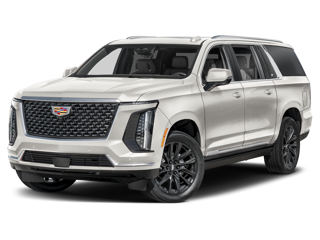
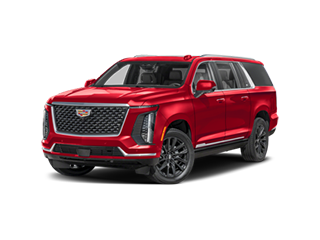
The last four thin rosters: Cadillac, Ford, Kia and Toyota now hold every model their live bars draw
The four that grouped correctly but had less in them than the bars they were
measured from. Same fix as Chevrolet's nine cutouts, finished: 71 models across
the four, every one read off the live bar, downloaded, and proved to serve the
identical bytes from an unrelated dealer domain.

  Cadillac   5 -> 14    Sedans held one car, and it was a CT5-V that bar has
                        never listed. Now CT4 and CT5, and the nine missing
                        crossovers.
  Ford       6 -> 12    Trucks & Vans held one of six. Now Maverick, Ranger,
                        Transit Connect, F-150, Super Duty, Transit.
  Kia       12 -> 18    K4 Hatchback, Carnival MPV, and the four hybrids the
                        Hybrid / Electric tab was missing.
  Toyota    10 -> 27    Cars & Minivan showed three of nine and Electrified one
                        of fourteen.

WHERE THE PICTURES CAME FROM. Cadillac and Ford move off ChromeData onto the
folder their own bar reads (brand-cadillac/homepage/model-bar/2026,
brand-ford/Homepage/model-bar/2025). That is what those bars actually serve, and
it is the only route with a deterministic path for every model - the ChromeData
one has to be found per model off a live inventory page, and which paint it
returns depends on what that store happens to stock. Kia keeps the mix its bar
uses, ChromeData for most tiles and brand-kia for six. Sizes are MEASURED from
the bytes, never copied from the width and height attributes, which is how five
[…]

diff --git a/demo/assets/cms-paths.js b/demo/assets/cms-paths.js
@@ -12,8 +12,10 @@
 // the model is guaranteed, not the paint colour. They are still proved to
 // serve from an unrelated dealer domain like everything else here.
 
-// 125 of 126 cutouts byte-proved, 8 name-matched, 26 library photos.
-// Harvested 2026-09-04 by re-running the script above.
+// 256 pairs: 248 byte-proved, 8 name-matched (the chrome-*.webp group above).
+// Harvested 2026-09-04 by re-running the script; merged additively since.
+// Last proved in full 2026-09-15 - every pair fetched from acurademo1, a domain
+// unrelated to any of them, and hashed against the local file.
 
 globalThis.CARGO = Object.assign(globalThis.CARGO || {}, {
   CMS: {
@@ -88,11 +90,10 @@ globalThis.CARGO = Object.assign(globalThis.CARGO || {}, {
     'oem/buick/encore-gx.png': '/assets/stock/ColorMatched_01/Transparent/320/cc_2026BUS06_01_320/cc_2026BUS061954085_01_320_GAS.png',
     'oem/buick/envision.png': '/assets/stock/Expanded/Transparent/320/2026BUS05_320/2026BUS051970113_320_01.png',
     'oem/buick/envista.png': '/assets/stock/ColorMatched_01/Transparent/320/cc_2026BUS07_01_320/cc_2026BUS071968602_01_320_GK9.png',
-    'oem/cadillac/ct5-v.png': '/assets/stock/Expanded/Transparent/320/2026CAC29_320/2026CAC291964286_320_01.png',
-    'oem/cadillac/escalade-esv.png': '/assets/stock/ColorMatched_01/Transparent/320/cc_2026CAS03_01_320/cc_2026CAS032082174_01_320_G4J.png',
-    'oem/cadillac/escalade-iq.png': '/assets/stock/ColorMatched_01/Transparent/320/cc_2026CAS10_01_320/cc_2026CAS102035478_01_320_GAI.png',
-    'oem/cadillac/escalade-iql.png': '/assets/stock/ColorMatched_01/Transparent/320/cc_2026CAS13_01_320/cc_2026CAS132004037_01_320_G4J.png',
-    'oem/cadillac/escalade.png': '/assets/stock/ColorMatched_01/Transparent/320/cc_2026CAS01_01_320/cc_2026CAS012081558_01_320_GBA.png',
+    'oem/cadillac/escalade-esv.png': '/static/brand-cadillac/homepage/model-bar/2026/Escalade-ESV.png',
+    'oem/cadillac/escalade-iq.png': '/static/brand-cadillac/homepage/model-bar/2026/Escalade-IQ.png',
+    'oem/cadillac/escalade-iql.png': '/static/brand-cadillac/homepage/model-bar/2026/Escalade-IQL.png',
+    'oem/cadillac/escalade.png': '/static/brand-cadillac/homepage/model-bar/2026/Escalade.png',
     'oem/cdjr/chrysler-pacifica.png': '/static/brand-chrysler/Homepage/model-bar/2026/pacifica.png',
     'oem/cdjr/chrysler-voyager.png': '/static/brand-chrysler/Homepage/model-bar/2026/voyager.png',
     'oem/cdjr/dodge-charger.png': '/static/brand-chrysler/Homepage/model-bar/2026/charger-2d.png',
@@ -101,12 +102,10 @@ globalThis.CARGO = Object.assign(globalThis.CARGO || {}, {
     'oem/cdjr/jeep-wrangler.png': '/static/brand-chrysler/Homepage/model-bar/2026/wrangler.png',
     'oem/cdjr/ram-1500.png': '/static/brand-chrysler/Homepage/model-bar/2026/ram1500.png',
     'oem/cdjr/ram-2500.png': '/static/brand-chrysler/Homepage/model-bar/2026/ram2500.png',
-    'oem/ford/bronco.png': '/assets/stock/Expanded/Transparent/320/2026FOS09_320/2026FOS092019854_320_01.png',
-    'oem/ford/escape.png': '/assets/stock/Expanded/Transparent/320/2026FOS13_320/2026FOS132041001_320_01.png',
-    'oem/ford/explorer.png': '/assets/stock/ColorMatched_01/Transparent/320/cc_2026FOS10_01_320/cc_2026FOS102066679_01_320_A3.png',
-    'oem/ford/f-150.png': '/assets/stock/Expanded/Transparent/320/2026FOT11_320/2026FOT112052105_320_01.png',
-    'oem/ford/mach-e.png': '/assets/stock/Expanded/Transparent/320/2026FOS39_320/2026FOS392018676_320_01.png',
-    'oem/ford/mustang.png': '/assets/stock/Expanded/Transparent/320/2026FOC05_320/2026FOC051997933_320_01.png',
+    'oem/ford/bronco.png': '/static/brand-ford/Homepage/model-bar/2025/bronco.png',
+    'oem/ford/explorer.png': '/static/brand-ford/Homepage/model-bar/2025/explorer.png',
+    'oem/ford/f-150.png': '/static/brand-ford/Homepage/model-bar/2025/f-150.png',
+    'oem/ford/mustang.png': '/static/brand-ford/Homepage/model-bar/2025/mustang.png',
     'oem/genesis/g70.png': '/static/brand-genesis/homepage/modelbar/2026/2026_g70.png',
     'oem/genesis/g80.png': '/static/brand-genesis/homepage/modelbar/2026/2026_g80.png',
     'oem/genesis/g90.png': '/static/brand-genesis/homepage/modelbar/2026/2026_g90.png',
@@ -131,14 +130,14 @@ globalThis.CARGO = Object.assign(globalThis.CARGO || {}, {
     'oem/kia/ev6.png': '/assets/stock/ColorMatched_01/Transparent/320/cc_2025KIS11_01_320/cc_2025KIS112053522_01_320_MLB.png',
     'oem/kia/ev9.png': '/assets/stock/ColorMatched_01/Transparent/320/cc_2026KIS14_01_320/cc_2026KIS141982086_01_320_RSL.png',
     'oem/kia/k4.png': '/assets/stock/ColorMatched_01/Transparent/320/cc_2026KIC21_01_320/cc_2026KIC212039153_01_320_SWP.png',
-    'oem/kia/k5.png': '/assets/stock/ColorMatched_01/Transparent/320/cc_2026KIC20_01_320/cc_2026KIC201989846_01_320_DU3.png',
+    'oem/kia/k5.png': '/static/brand-kia/Homepage/model-bar/2026/k5-profile-320.png',
     'oem/kia/niro-ev.png': '/assets/stock/ColorMatched_01/Transparent/320/cc_2025KIS07_01_320/cc_2025KIS072033080_01_320_SWP.png',
     'oem/kia/niro-plug-in-hybrid.png': '/assets/stock/ColorMatched_01/Transparent/320/cc_2025KIS05_01_320/cc_2025KIS051989274_01_320_M4B.png',
     'oem/kia/niro.png': '/assets/stock/ColorMatched_01/Transparent/320/cc_2026KIS04_01_320/cc_2026KIS042043916_01_320_CR5.png',
     'oem/kia/seltos.png': '/assets/stock/Expanded/Transparent/320/2026KIS08_320/2026KIS081978066_320_01.png',
     'oem/kia/sorento-hybrid.png': '/assets/stock/ColorMatched_01/Transparent/320/cc_2026KIS09_01_320/cc_2026KIS092006874_01_320_CGE.png',
     'oem/kia/sorento.png': '/assets/stock/ColorMatched_01/Transparent/320/cc_2026KIS02_01_320/cc_2026KIS022005133_01_320_RSL.png',
-    'oem/kia/sportage.png': '/assets/stock/ColorMatched_01/Transparent/320/cc_2026KIS01_01_320/cc_2026KIS012024701_01_320_LAB.png',
+    'oem/kia/sportage.png': '/static/brand-kia/Homepage/model-bar/2026/sportage-profile-320.png',
     'oem/kia/telluride.png': '/assets/stock/ColorMatched_01/Transparent/320/cc_2027KIS06_01_320/cc_2027KIS062056820_01_320_RSL.png',
     'oem/landrover/defender.png': '/assets/stock/Expanded/Transparent/320/2026LRS13_320/2026LRS132045992_320_01.png',
     'oem/landrover/range-rover.png': '/assets/stock/Expanded/Transparent/320/2026LRS07_320/2026LRS072063779_320_01.png',
@@ -176,11 +175,11 @@ globalThis.CARGO = Object.assign(globalThis.CARGO || {}, {
     'oem/toyota/corolla.jpg': '/static/brand-toyota/Homepage/model-bar/2026/picture-based/2026-corolla.jpg',
     'oem/toyota/4runner.png': '/static/brand-toyota/Homepage/model-bar/2026/angular-left/4runner.png',
     'oem/toyota/camry.png': '/static/brand-toyota/Homepage/model-bar/2026/angular-left/camry.png',
-    'oem/toyota/corolla-hatchback.png': '/static/brand-toyota/Homepage/model-bar/2026/angular-left/corolla-hatchback.png',
+    'oem/toyota/corolla-hatchback.png': '/static/brand-toyota/Homepage/model-bar/2027/angular-left/corolla-hatchback.png',
     'oem/toyota/corolla.png': '/static/brand-toyota/Homepage/model-bar/2026/angular-left/corolla.png',
     'oem/toyota/grand-highlander.png': '/static/brand-toyota/Homepage/model-bar/2026/angular-left/grand-highlander.png',
     'oem/toyota/highlander.png': '/static/brand-toyota/Homepage/model-bar/2026/angular-left/highlander.png',
-    'oem/toyota/landcruiser.png': '/static/brand-toyota/Homepage/model-bar/2026/angular-left/landcruiser.png',
+    'oem/toyota/landcruiser.png': '/static/brand-toyota/Homepage/model-bar/2027/angular-left/landcruiser.png',
     'oem/toyota/rav4.png': '/static/brand-toyota/Homepage/model-bar/2026/angular-left/rav4.png',
     'oem/toyota/tacoma.png': '/static/brand-toyota/Homepage/model-bar/2026/angular-left/tacoma.png',
     'oem/toyota/tundra.png': '/static/brand-toyota/Homepage/model-bar/2026/angular-left/tundra.png',
@@ -247,5 +246,50 @@ globalThis.CARGO = Object.assign(globalThis.CARGO || {}, {
     'chrome-brightdrop.png': '/assets/stock/Expanded/Transparent/320/2026CHV36_320/2026CHV362018903_320_01.png',
     'chrome-blazer.png': '/assets/stock/ColorMatched_01/Transparent/320/cc_2026CHS09_01_320/cc_2026CHS092044906_01_320_GNT.png',
     'chrome-corvette.png': '/assets/stock/Expanded/Transparent/320/2026CHC06_320/2026CHC062056336_320_01.png',
+    // Cadillac, Ford, Kia and Toyota taken up to the full rosters their live
+    // bars draw (2026-09-15). Cadillac and Ford move off ChromeData onto the
+    // bar's own folder, which is what those bars actually serve and the only
+    // route that reaches every model; Kia keeps the mix its bar uses.
+    'oem/cadillac/vistiq.png': '/static/brand-cadillac/homepage/model-bar/2026/VISTIQ.png',
+    'oem/cadillac/lyriq.png': '/static/brand-cadillac/homepage/model-bar/2026/LYRIQ.png',
+    'oem/cadillac/optiq.png': '/static/brand-cadillac/homepage/model-bar/2026/OPTIQ.png',
+    'oem/cadillac/optiq-v.png': '/static/brand-cadillac/homepage/model-bar/2026/OPTIQ-V.png',
+    'oem/cadillac/escalade-v.png': '/static/brand-cadillac/homepage/model-bar/2026/Escalade-V.png',
+    'oem/cadillac/xt4.png': '/static/brand-cadillac/homepage/model-bar/2026/XT-4.png',
+    'oem/cadillac/xt5.png': '/static/brand-cadillac/homepage/model-bar/2026/XT-5.png',
+    'oem/cadillac/xt6.png': '/static/brand-cadillac/homepage/model-bar/2026/XT-6.png',
+    'oem/cadillac/ct4.png': '/static/brand-cadillac/homepage/model-bar/2026/CT4.png',
+    'oem/cadillac/ct5.png': '/static/brand-cadillac/homepage/model-bar/2026/CT5.png',
+    'oem/ford/bronco-sport.png': '/static/brand-ford/Homepage/model-bar/2025/bronco-sport.png',
+    'oem/ford/expedition.png': '/static/brand-ford/Homepage/model-bar/2025/expedition.png',
+    'oem/ford/mustang-mach-e.png': '/static/brand-ford/Homepage/model-bar/2025/mach-e.png',
+    'oem/ford/maverick.png': '/static/brand-ford/Homepage/model-bar/2025/maverick.png',
+    'oem/ford/ranger.png': '/static/brand-ford/Homepage/model-bar/2025/ranger.png',
+    'oem/ford/transit-connect.png': '/static/brand-ford/Homepage/model-bar/2023/transit-connect-left.png',
+    'oem/ford/super-duty.png': '/static/brand-ford/Homepage/model-bar/2025/super-duty.png',
+    'oem/ford/transit.png': '/static/brand-ford/Homepage/model-bar/2025/transit.png',
+    'oem/kia/k4-hatchback.png': '/static/brand-kia/Homepage/model-bar/2026/k4-hatchback.png',
+    'oem/kia/carnival-mpv.png': '/static/brand-kia/Homepage/model-bar/2027/carnival.png',
+    'oem/kia/sportage-hybrid.png': '/static/brand-kia/Homepage/model-bar/2027/sportage-hev.png',
+    'oem/kia/sportage-plug-in-hybrid.png': '/static/brand-kia/Homepage/model-bar/2027/sportage-phev.png',
+    'oem/kia/telluride-hybrid.png': '/static/brand-kia/Homepage/model-bar/2027/telluride-hybrid.png',
+    'oem/kia/carnival-mpv-hybrid.png': '/static/brand-kia/Homepage/model-bar/2027/carnival-hev.png',
+    'oem/toyota/mirai.png': '/static/brand-toyota/Homepage/model-bar/2024/angular-left/mirai.png',
+    'oem/toyota/gr86.png': '/static/brand-toyota/Homepage/model-bar/2026/angular-left/gr86.png',
+    'oem/toyota/gr-supra.png': '/static/brand-toyota/Homepage/model-bar/2026/angular-left/gr-supra.png',
+    'oem/toyota/sienna.png': '/static/brand-toyota/Homepage/model-bar/2026/angular-left/sienna.png',
+    'oem/toyota/crown.png': '/static/brand-toyota/Homepage/model-bar/2026/angular-left/toyota-crown.png',
+    'oem/toyota/gr-corolla.png': '/static/brand-toyota/Homepage/model-bar/2026/angular-left/gr-corolla.png',
+    'oem/toyota/crown-signia.png': '/static/brand-toyota/Homepage/model-bar/2026/angular-left/toyota-crown-signia.png',
+    'oem/toyota/corolla-cross.png': '/static/brand-toyota/Homepage/model-bar/2026/angular-left/corolla-cross.png',
+    'oem/toyota/sequoia.png': '/static/brand-toyota/Homepage/model-bar/2026/angular-left/sequoia.png',
+    'oem/toyota/prius-plug-in-hybrid.png': '/static/brand-toyota/Homepage/model-bar/2027/angular-left/prius-plugin-hybrid.png',
+    'oem/toyota/prius.png': '/static/brand-toyota/Homepage/model-bar/2027/angular-left/prius.png',
+    'oem/toyota/corolla-hybrid.png': '/static/brand-toyota/Homepage/model-bar/2026/angular-left/corolla-hybrid.png',
+    'oem/toyota/corolla-cross-hybrid.png': '/static/brand-toyota/Homepage/model-bar/2026/angular-left/corolla-cross-hybrid.png',
+    'oem/toyota/c-hr.png': '/static/brand-toyota/Homepage/model-bar/2026/angular-left/c-hr.png',
+    'oem/toyota/rav4-plug-in-hybrid.png': '/static/brand-toyota/Homepage/model-bar/2026/angular-left/rav4-plugin-hybrid.png',
+    'oem/toyota/tundra-i-force-max.png': '/static/brand-toyota/Homepage/model-bar/2026/angular-left/tundra-iforce-max.png',
+    'oem/toyota/bz.png': '/static/brand-toyota/Homepage/model-bar/2026/angular-left/bz.png',
   },
 });

diff --git a/demo/assets/brands.js b/demo/assets/brands.js
@@ -70,14 +70,28 @@
         ['x5.png', 320, 240, 'X5'],
       ],
     ],
+    // All fourteen models cadillacdemo1's bar draws, in its own reading order,
+    // from the folder the bar itself reads (brand-cadillac/homepage/model-bar/
+    // 2026). Five ChromeData renders stood here until 2026-09-15 and only two
+    // panes had more than one card in them: "Sedans" held a CT5-V the live bar
+    // has never listed, and nine models were missing outright.
     cadillac: [
       'cadillac',
       [
-        ['ct5-v.png', 320, 240, 'CT5-V', 'Sedans'],
-        ['escalade-esv.png', 320, 240, 'Escalade ESV', 'Crossovers/SUVs'],
+        ['vistiq.png', 320, 240, 'VISTIQ', 'Electric | Crossovers/SUVs'],
+        ['lyriq.png', 320, 240, 'LYRIQ', 'Electric | Crossovers/SUVs'],
+        ['optiq.png', 320, 240, 'OPTIQ', 'Electric | Crossovers/SUVs'],
+        ['optiq-v.png', 320, 240, 'OPTIQ-V', 'Electric | Crossovers/SUVs'],
         ['escalade-iq.png', 320, 240, 'Escalade IQ', 'Electric | Crossovers/SUVs'],
         ['escalade-iql.png', 320, 240, 'Escalade IQL', 'Electric | Crossovers/SUVs'],
         ['escalade.png', 320, 240, 'Escalade', 'Crossovers/SUVs'],
+        ['escalade-v.png', 320, 240, 'Escalade-V', 'Crossovers/SUVs'],
+        ['escalade-esv.png', 320, 240, 'Escalade ESV', 'Crossovers/SUVs'],
+        ['xt4.png', 320, 240, 'XT4', 'Crossovers/SUVs'],
+        ['xt5.png', 320, 240, 'XT5', 'Crossovers/SUVs'],
+        ['xt6.png', 320, 240, 'XT6', 'Crossovers/SUVs'],
+        ['ct4.png', 320, 240, 'CT4', 'Sedans'],
+        ['ct5.png', 320, 240, 'CT5', 'Sedans'],
       ],
     ],
     honda: [
@@ -151,21 +165,39 @@
         ['canyon.png', 320, 240, 'Canyon'],
       ],
     ],
+    // kiademo2's bar, which is the one brand here that MIXES its sources: most
+    // tiles are ChromeData renders off /assets/stock/, six come out of
+    // brand-kia/Homepage/model-bar/. Both are kept exactly as that bar draws
+    // them. The five 640x480 rows are the platform's own bytes - that bar
+    // declares them 320x240, which is wrong but harmless, since 640x480 is the
+    // same 4:3 and the attributes here are MEASURED.
+    //
+    // Two tiles on that page are mislabelled in their attributes (the EV9
+    // render carries data-dotagging-item-model="EV6", and the Telluride Hybrid
+    // one an alt reading "Kia Sportage Plug-In Hybrid"), so the names below
+    // come from the visible <p class="vehicleName">, which is what a shopper
+    // reads.
     kia: [
       'kia',
       [
         ['k4.png', 320, 240, 'K4', 'Sedan'],
+        ['k4-hatchback.png', 320, 240, 'K4 Hatchback', 'Sedan'],
         ['k5.png', 320, 240, 'K5', 'Sedan'],
         ['seltos.png', 320, 240, 'Seltos', 'SUV / CUV / MPV'],
         ['sportage.png', 320, 240, 'Sportage', 'SUV / CUV / MPV'],
         ['sorento.png', 320, 240, 'Sorento', 'SUV / CUV / MPV'],
+        ['carnival-mpv.png', 640, 480, 'Carnival MPV', 'SUV / CUV / MPV'],
         ['telluride.png', 320, 240, 'Telluride', 'SUV / CUV / MPV'],
-        ['sorento-hybrid.png', 320, 240, 'Sorento Hybrid', 'Hybrid / Electric'],
         ['niro.png', 320, 240, 'Niro', 'Hybrid / Electric'],
         ['ev6.png', 320, 240, 'EV6', 'Hybrid / Electric'],
         ['ev9.png', 320, 240, 'EV9', 'Hybrid / Electric'],
         ['niro-ev.png', 320, 240, 'Niro EV', 'Hybrid / Electric'],
         ['niro-plug-in-hybrid.png', 320, 240, 'Niro Plug-In Hybrid', 'Hybrid / Electric'],
+        ['sorento-hybrid.png', 320, 240, 'Sorento Hybrid', 'Hybrid / Electric'],
+        ['sportage-hybrid.png', 640, 480, 'Sportage Hybrid', 'Hybrid / Electric'],
+        ['sportage-plug-in-hybrid.png', 640, 480, 'Sportage Plug-In Hybrid', 'Hybrid / Electric'],
+        ['telluride-hybrid.png', 640, 480, 'Telluride Hybrid', 'Hybrid / Electric'],
+        ['carnival-mpv-hybrid.png', 640, 480, 'Carnival MPV Hybrid', 'Hybrid / Electric'],
       ],
     ],
     mini: [
@@ -253,15 +285,27 @@
         ['corsair.png', 320, 240, 'Corsair'],
       ],
     ],
+    // forddemo1's own model-bar folder, 400x300 (brand-ford/Homepage/model-bar/
+    // 2025, and 2023 for the Transit Connect the bar still points at). Escape
+    // and Edge are NOT here: both are still in that page's source, commented
+    // out, and a model that is commented out is not on the bar. Six ChromeData
+    // renders stood here until 2026-09-15, which left "Trucks & Vans" holding
+    // one card of six and an Escape the bar does not draw.
     ford: [
       'ford',
       [
-        ['mustang.png', 320, 240, 'Mustang', 'Cars'],
-        ['mach-e.png', 320, 240, 'Mach-E', 'SUVs & Crossovers | All Electric'],
-        ['escape.png', 320, 240, 'Escape', 'SUVs & Crossovers'],
-        ['explorer.png', 320, 240, 'Explorer', 'SUVs & Crossovers'],
-        ['bronco.png', 320, 240, 'Bronco', 'SUVs & Crossovers'],
-        ['f-150.png', 320, 240, 'F-150', 'Trucks & Vans'],
+        ['bronco-sport.png', 400, 300, 'Bronco Sport', 'SUVs & Crossovers'],
+        ['bronco.png', 400, 300, 'Bronco', 'SUVs & Crossovers'],
+        ['explorer.png', 400, 300, 'Explorer', 'SUVs & Crossovers'],
+        ['expedition.png', 400, 300, 'Expedition', 'SUVs & Crossovers'],
+        ['mustang-mach-e.png', 400, 300, 'Mustang Mach-E', 'SUVs & Crossovers | All Electric'],
+        ['maverick.png', 400, 300, 'Maverick', 'Trucks & Vans'],
+        ['ranger.png', 400, 300, 'Ranger', 'Trucks & Vans'],
+        ['transit-connect.png', 400, 300, 'Transit Connect', 'Trucks & Vans'],
+        ['f-150.png', 400, 300, 'F-150', 'Trucks & Vans'],
+        ['super-duty.png', 400, 300, 'Super Duty', 'Trucks & Vans'],
+        ['transit.png', 400, 300, 'Transit', 'Trucks & Vans'],
+        ['mustang.png', 400, 300, 'Mustang', 'Cars'],
       ],
     ],
     hyundai: [
@@ -286,25 +330,55 @@
         ['mx-5-miata.png', 480, 209, 'MX-5 Miata'],
       ],
     ],
-    // Cutouts from the folder toyotademo1's own model bar reads
-    // (brand-toyota/Homepage/model-bar/2026/angular-left, 29 models at
-    // 518x220). The picture-based JPGs that were here until 2026-09-10 were the
-    // split card's photographs, and a brand roster is only ever drawn on a
-    // cutout card - so they were the wrong asset class on every card that
-    // could show them.
+    // Cutouts from the folders toyotademo1's own model bar reads
+    // (brand-toyota/Homepage/model-bar/<year>/angular-left, 518x220 - the year
+    // is per model, and the bar is on 2027 for the Corolla Hatchback, the Land
+    // Cruiser and both Priuses). The picture-based JPGs that were here until
+    // 2026-09-10 were the split card's photographs, and a brand roster is only
+    // ever drawn on a cutout card - so they were the wrong asset class on every
+    // card that could show them.
+    //
+    // All 27 models that bar draws. Ten stood here until 2026-09-15,
+    // which left "Cars & Minivan" showing three of nine and "Electrified" one
+    // of fourteen.
+    //
+    // ONE ROW PER MODEL, so where that bar draws the same name twice from two
+    // renders - Sequoia is sequoia.png under Crossovers and sequoia-hybrid.png
+    // under Electrified - the first one it reaches is the one kept. That is
+    // also why the flat list cannot reproduce every pane's order: the bar puts
+    // Sienna before Crown under Cars & Minivan and Crown before Sienna under
+    // Electrified, so no single order satisfies both. Membership is what a tab
+    // has to get right.
     toyota: [
       'toyota',
       [
         ['rav4.png', 518, 220, 'RAV4', 'Popular | Electrified'],
         ['highlander.png', 518, 220, 'Highlander', 'Popular | Crossovers & SUVs'],
         ['4runner.png', 518, 220, '4Runner', 'Popular | Crossovers & SUVs'],
+        ['tacoma.png', 518, 220, 'Tacoma', 'Popular | Trucks'],
+        ['camry.png', 518, 220, 'Camry', 'Popular | Cars & Minivan'],
+        ['tundra.png', 518, 220, 'Tundra', 'Popular | Trucks'],
         ['corolla.png', 518, 220, 'Corolla', 'Cars & Minivan'],
         ['corolla-hatchback.png', 518, 220, 'Corolla Hatchback', 'Cars & Minivan'],
-        ['camry.png', 518, 220, 'Camry', 'Popular | Cars & Minivan'],
-        ['tacoma.png', 518, 220, 'Tacoma', 'Popular | Trucks'],
-        ['tundra.png', 518, 220, 'Tundra', 'Popular | Trucks'],
+        ['mirai.png', 518, 220, 'Mirai', 'Cars & Minivan | Electrified'],
+        ['gr86.png', 518, 220, 'GR86', 'Cars & Minivan'],
+        ['gr-supra.png', 518, 220, 'GR Supra', 'Cars & Minivan'],
+        ['sienna.png', 518, 220, 'Sienna', 'Cars & Minivan | Electrified'],
+        ['crown.png', 518, 220, 'Crown', 'Cars & Minivan | Electrified'],
+        ['gr-corolla.png', 518, 220, 'GR Corolla', 'Cars & Minivan'],
         ['landcruiser.png', 518, 220, 'Land Cruiser', 'Crossovers & SUVs'],
         ['grand-highlander.png', 518, 220, 'Grand Highlander', 'Crossovers & SUVs'],
+        ['crown-signia.png', 518, 220, 'Crown Signia', 'Crossovers & SUVs | Electrified'],
+        ['corolla-cross.png', 518, 220, 'Corolla Cross', 'Crossovers & SUVs'],
+        ['sequoia.png', 518, 220, 'Sequoia', 'Crossovers & SUVs | Electrified'],
+        ['prius-plug-in-hybrid.png', 518, 220, 'Prius Plug-in Hybrid', 'Electrified'],
+        ['prius.png', 518, 220, 'Prius', 'Electrified'],
+        ['corolla-hybrid.png', 518, 220, 'Corolla Hybrid', 'Electrified'],
+        ['corolla-cross-hybrid.png', 518, 220, 'Corolla Cross Hybrid', 'Electrified'],
+        ['c-hr.png', 518, 220, 'C-HR', 'Electrified'],
+        ['rav4-plug-in-hybrid.png', 518, 220, 'RAV4 Plug-in Hybrid', 'Electrified'],
+        ['tundra-i-force-max.png', 518, 220, 'Tundra i-FORCE MAX', 'Electrified'],
+        ['bz.png', 518, 220, 'bZ', 'Electrified'],
       ],
     ],
     // The mb-*.png cutouts alfaromeodemo1 ships beside its tall portrait

diff --git a/docs/coverage.md b/docs/coverage.md
@@ -60,13 +60,13 @@ not enough to measure from. Measuring is the next step for those rows regardless
 
 | OEM        | Type                                  | Replacement code                                    | Example link                   | Our pattern | Status                         | Evidence                                                                                                                                                   |
 | ---------- | ------------------------------------- | --------------------------------------------------- | ------------------------------ | ----------- | ------------------------------ | ---------------------------------------------------------------------------------------------------------------------------------------------------------- |
-| Cadillac   | Tabs                                  | `cadillac-model-bar`                                | cadillacdemo1                  | `tabs`      | Replacement built              | `brands.js` cadillac, measured 2026-09-14                                                                                                                  |
+| Cadillac   | Tabs                                  | `cadillac-model-bar`                                | cadillacdemo1                  | `tabs`      | Replacement built              | `brands.js` cadillac, measured 2026-09-14; roster taken to the bar's full 14 models 2026-09-15                                                             |
 | Chevrolet  | Tabs                                  | `chevrolet-model-bar`                               | chevroletdemo1                 | `tabs`      | Replacement built              | `brands.js` chevrolet, measured 2026-09-14                                                                                                                 |
-| Ford       | Slick Tabbed                          | `ford-model-bar-slick-tabbed-panels`                | forddemo1                      | `tabs`      | Replacement built              | `brands.js` ford, measured 2026-09-14                                                                                                                      |
-| Toyota     | Tabs v2                               | `toyota-modelbar-slick-tabbed-v2`                   | toyotademo4                    | `tabs`      | Replacement built              | `brands.js` toyota, measured from toyotademo1 2026-09-10, which draws this same bar                                                                        |
+| Ford       | Slick Tabbed                          | `ford-model-bar-slick-tabbed-panels`                | forddemo1                      | `tabs`      | Replacement built              | `brands.js` ford, measured 2026-09-14; roster taken to the bar's full 12 models 2026-09-15                                                                 |
+| Toyota     | Tabs v2                               | `toyota-modelbar-slick-tabbed-v2`                   | toyotademo4                    | `tabs`      | Replacement built              | `brands.js` toyota, measured from toyotademo1 2026-09-10, which draws this same bar; roster taken to its full 27 models 2026-09-15                         |
 | GMC        | Tabs                                  | `gmc-model-bar`                                     | gmcdemo1                       | `modelbar`  | Replacement built              | `brands.js` gmc, measured 2026-09-15. The article types it Tabs; the live page draws a plain bar with no tab row                                           |
 | Honda      | Slick                                 | `honda-model-bar-slick`                             | hondademo4                     | `modelbar`  | Replacement built              | `brands.js` honda, measured 2026-09-15 from hondademo2, which runs the same ten-slide bar on the same ladder                                               |
-| Kia        | Tabs                                  | `kia-model-bar`                                     | kiademo2                       | `tabs`      | Replacement built              | `brands.js` kia, measured 2026-09-15 from kiademo2, the equal-card bar                                                                                     |
+| Kia        | Tabs                                  | `kia-model-bar`                                     | kiademo2                       | `tabs`      | Replacement built              | `brands.js` kia, measured 2026-09-15 from kiademo2, the equal-card bar; roster taken to its full 18 models the same day                                    |
 | Subaru     | Slick Tabs                            | `subaru-model-bar-slick`                            | subarudemo2                    | `tabs`      | Replacement built              | `brands.js` subaru, measured 2026-09-15 from subarudemo1, which is the same bar to the slide. Tab icons not carried — markup, not values                   |
 | Acura      | Slick                                 | `acura-model-bar-slick`                             | acurademo1                     | `modelbar`  | Pattern ready, not measured    | 1 slick bar, 5@768:3,460:2                                                                                                                                 |
 | Alfa Romeo | Slick                                 | `alfa-romeo-model-bar-cards`                        | alfaromeo3                     | `modelbar`  | Pattern ready, not measured    | 1 slick bar, 6 slides, 4@1800:4,1200:3,992:2,540:1                                                                                                         |
@@ -107,7 +107,7 @@ not enough to measure from. Measuring is the next step for those rows regardless
 | GMC        | Slick                                 | `gmc-model-bar-slick`                               | gmcdemo4                       | `modelbar`  | Example is dead                | `gmcdemo4` returns 404                                                                                                                                     |
 | Hyundai    | Tabs                                  | `hyundai-model-bar`                                 | hyundaidemo3                   | `tabs`      | Example is dead                | `hyundaidemo3` returns 404                                                                                                                                 |
 | Toyota     | Tabs                                  | `toyota-modelbar-slick-tabbed`                      | toyotademo6                    | `tabs`      | Example is dead                | `toyotademo6` returns 404                                                                                                                                  |
-| Toyota     | Slick                                 | `toyota-modelbar-slick`                             | toyotademo1                    | `modelbar`  | Article looks wrong            | `toyotademo1` draws the five-tab bar — same tabs, same 6/8/2/7/13 slide counts, same ladder as `toyotademo4` (Tabs v2). Nothing on it is a plain slick bar |
+| Toyota     | Slick                                 | `toyota-modelbar-slick`                             | toyotademo1                    | `modelbar`  | Article looks wrong            | `toyotademo1` draws the five-tab bar — same tabs, same 6/9/2/7/14 slide counts, same ladder as `toyotademo4` (Tabs v2). Nothing on it is a plain slick bar |
 | Chevrolet  | Slick                                 | `chevrolet-model-bar-slick`                         | chevroletdemo1                 | `modelbar`  | Retired                        | The article marks it deprecated as of November 2025                                                                                                        |
 
 ## What the table says that the brand tracker could not
